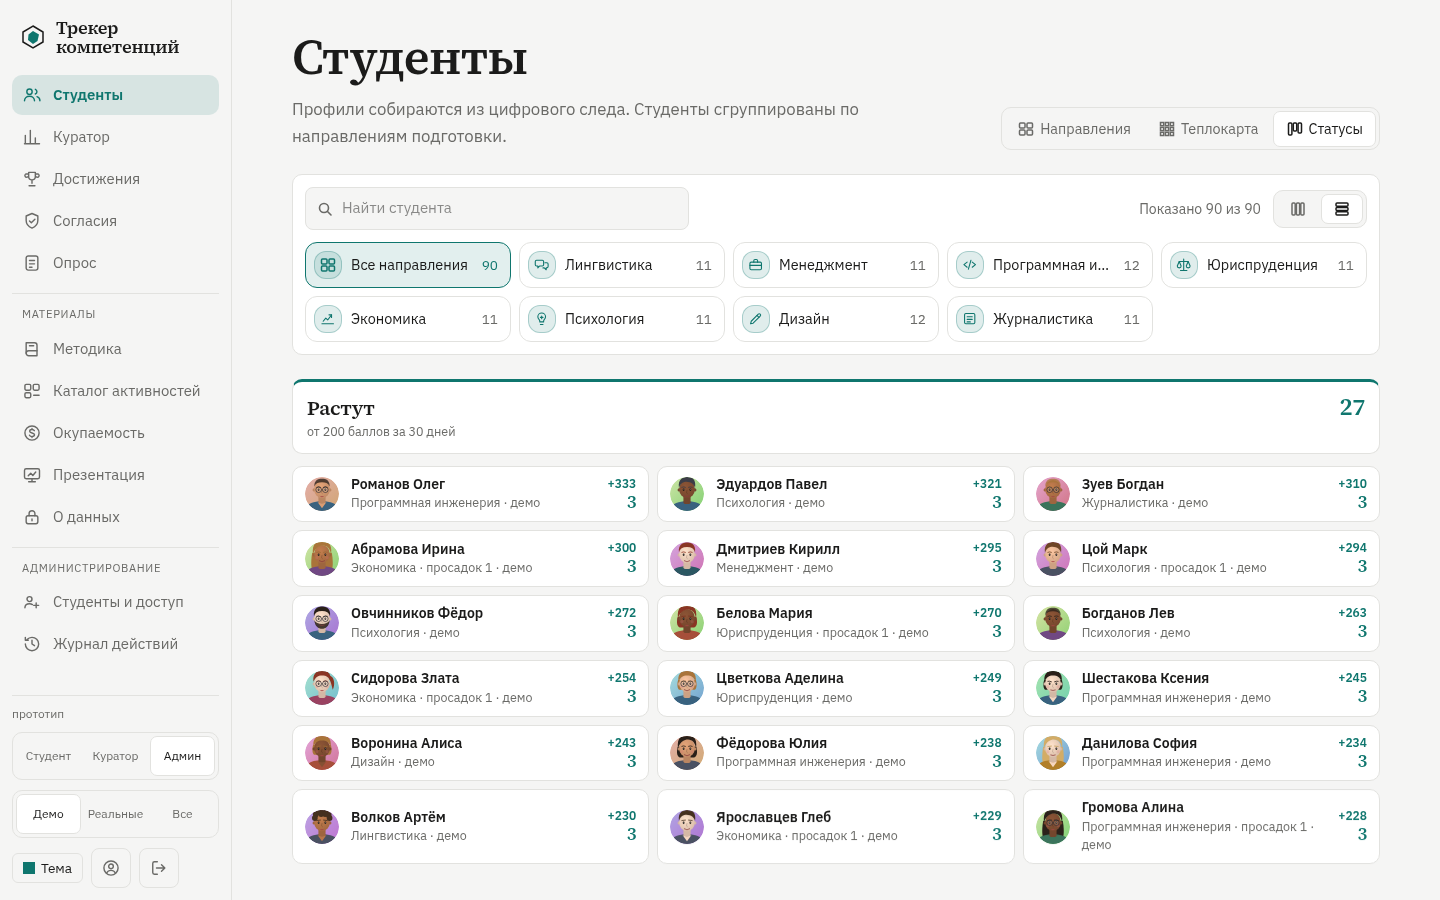
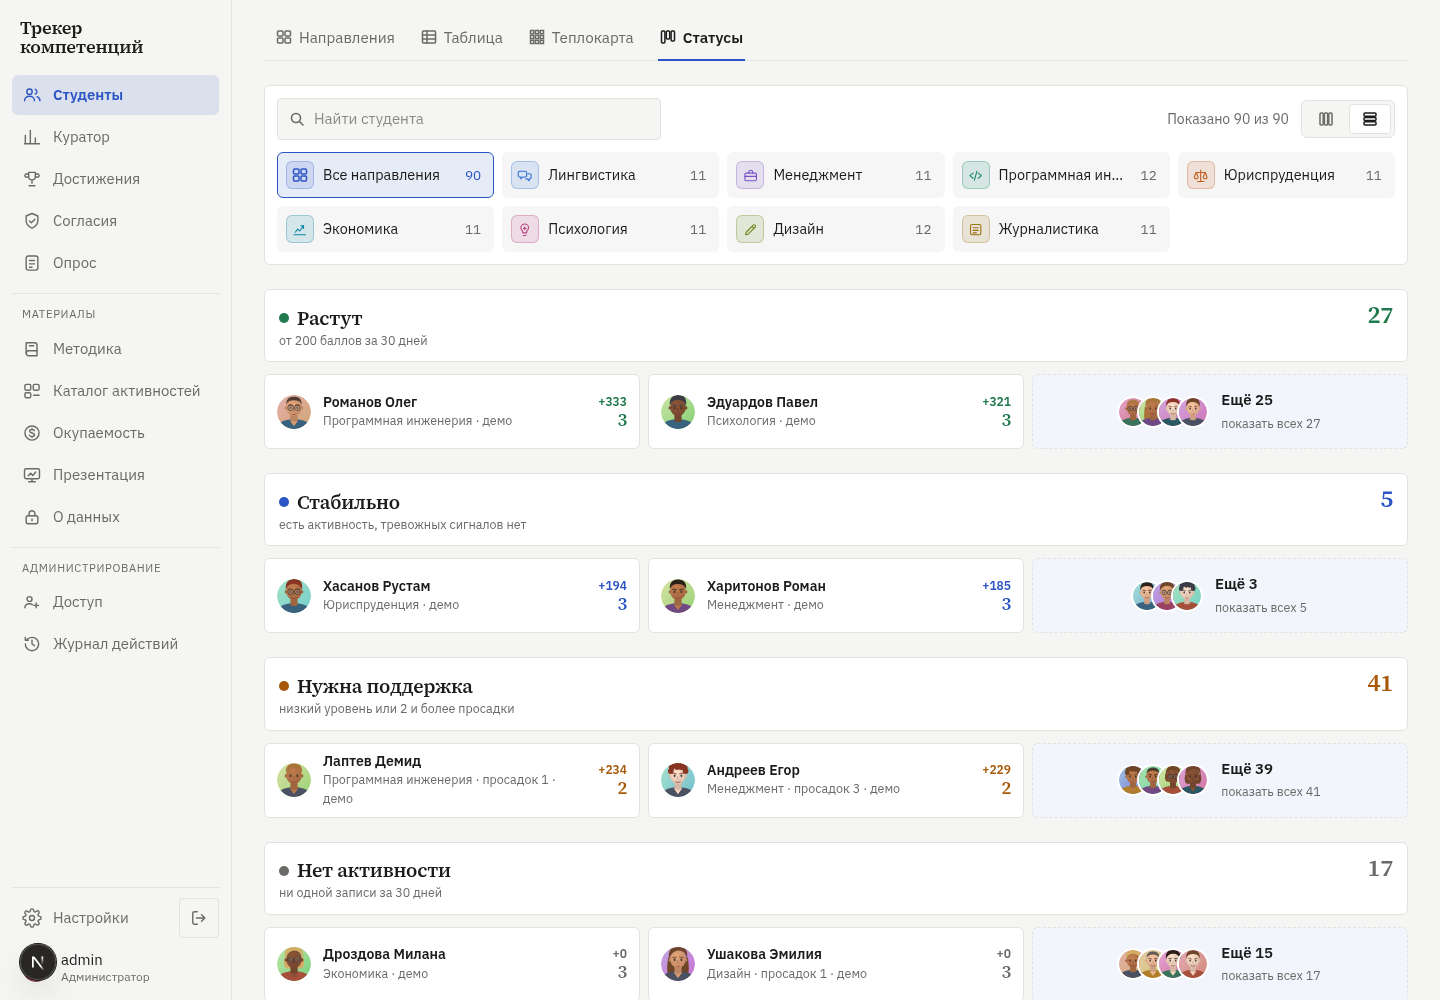
docs: remove mentions of the university and the team number; refresh screenshots and demo

diff --git a/README.md b/README.md
@@ -10,7 +10,7 @@
 
 <p align="center">
   <b>Профиль компетенций студента, который собирается из его цифрового следа, а не из разовых анкет.</b><br>
-  Команда №36, ЮГУ · акселератор «Окно в рынок для стартапа» · заказчик: Фонд Югры
+  Акселератор «Окно в рынок для стартапа» · заказчик: Фонд Югры
 </p>
 
 <p align="center">
@@ -106,7 +106,7 @@
 | Согласия, выгрузка, удаление своих данных | ✅ работает |
 | Реальные источники данных (Leader-ID) | ✅ подключен |
 | Постоянный домен и https | ✅ competency-track.ru |
-| Пилот на одном направлении ЮГУ | ⏳ запланирован |
+| Пилот на одном направлении вуза | ⏳ запланирован |
 
 Демонстрационные студенты вымышленные. Реальные данные в прототип пока не загружаются.
 
@@ -122,10 +122,10 @@
 
 ## Исходный код
 
-Закрыт. Проект разрабатывается командой и не публикуется в открытом доступе. Все права защищены. Копирование, изменение и распространение без письменного разрешения автора не допускаются.
+Закрыт. Исходный код не публикуется в открытом доступе. Все права защищены. Копирование, изменение и распространение без письменного разрешения автора не допускаются.
 
 Разработка прототипа выполнена внешним разработчиком по приглашению Д. Хвостовой.
 
 <img src="docs/assets/divider.svg" alt="" width="100%">
 
-<p align="center"><sub>Команда №36 · ЮГУ · 2026</sub></p>
+<p align="center"><sub>© 2026 NoFilterA1</sub></p>
